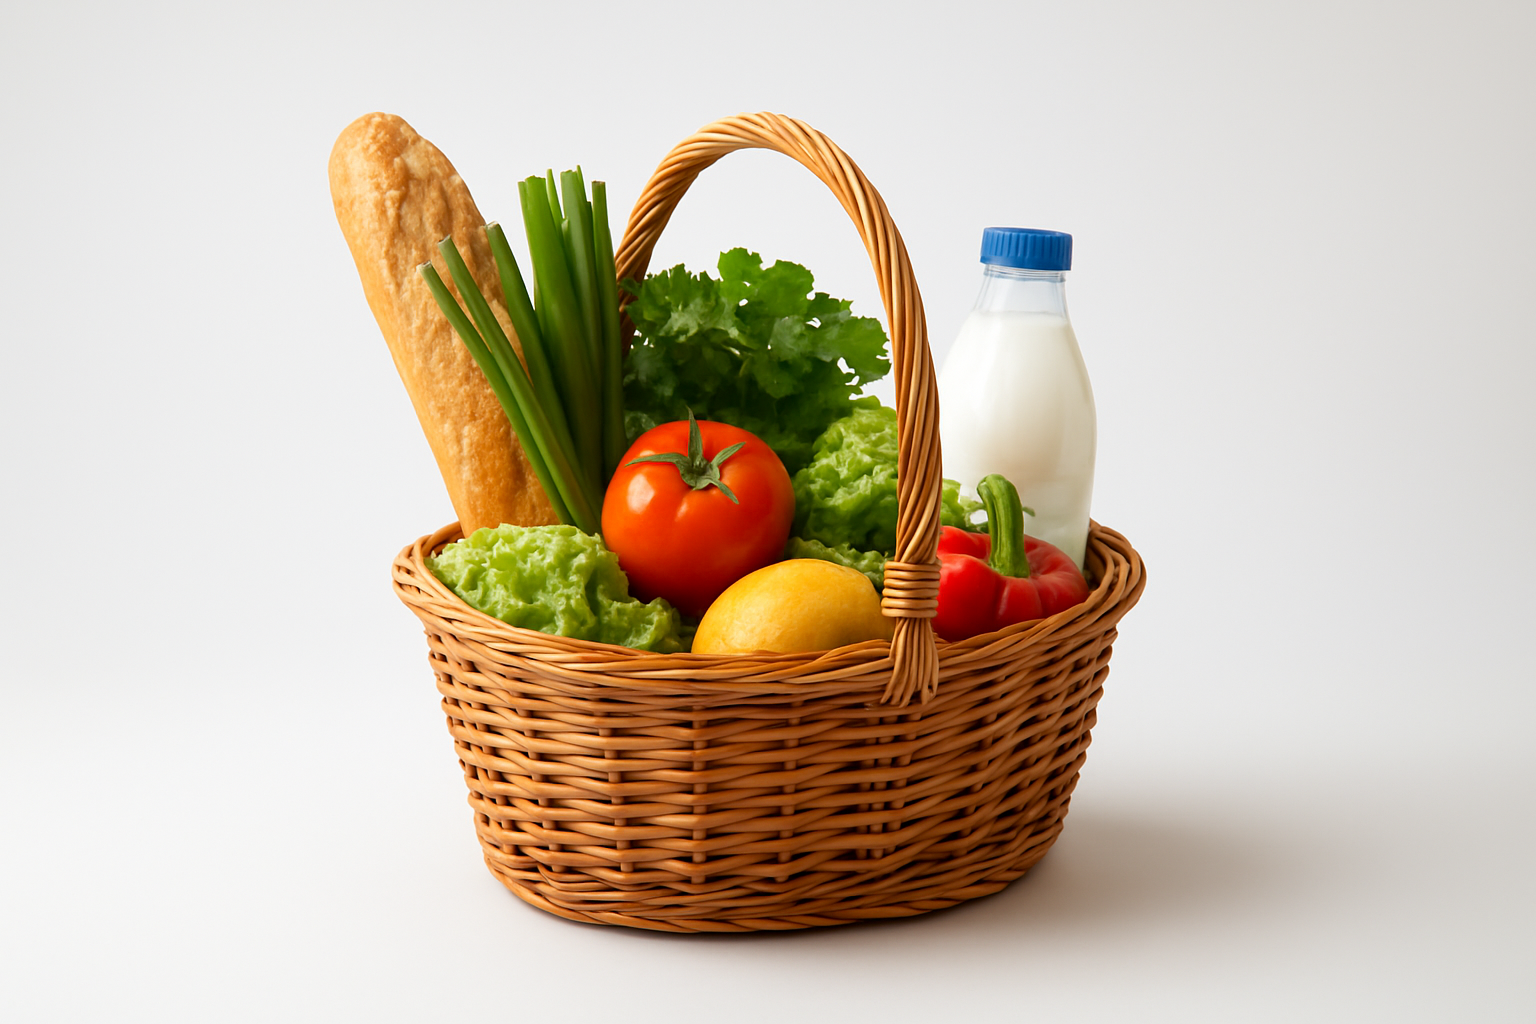
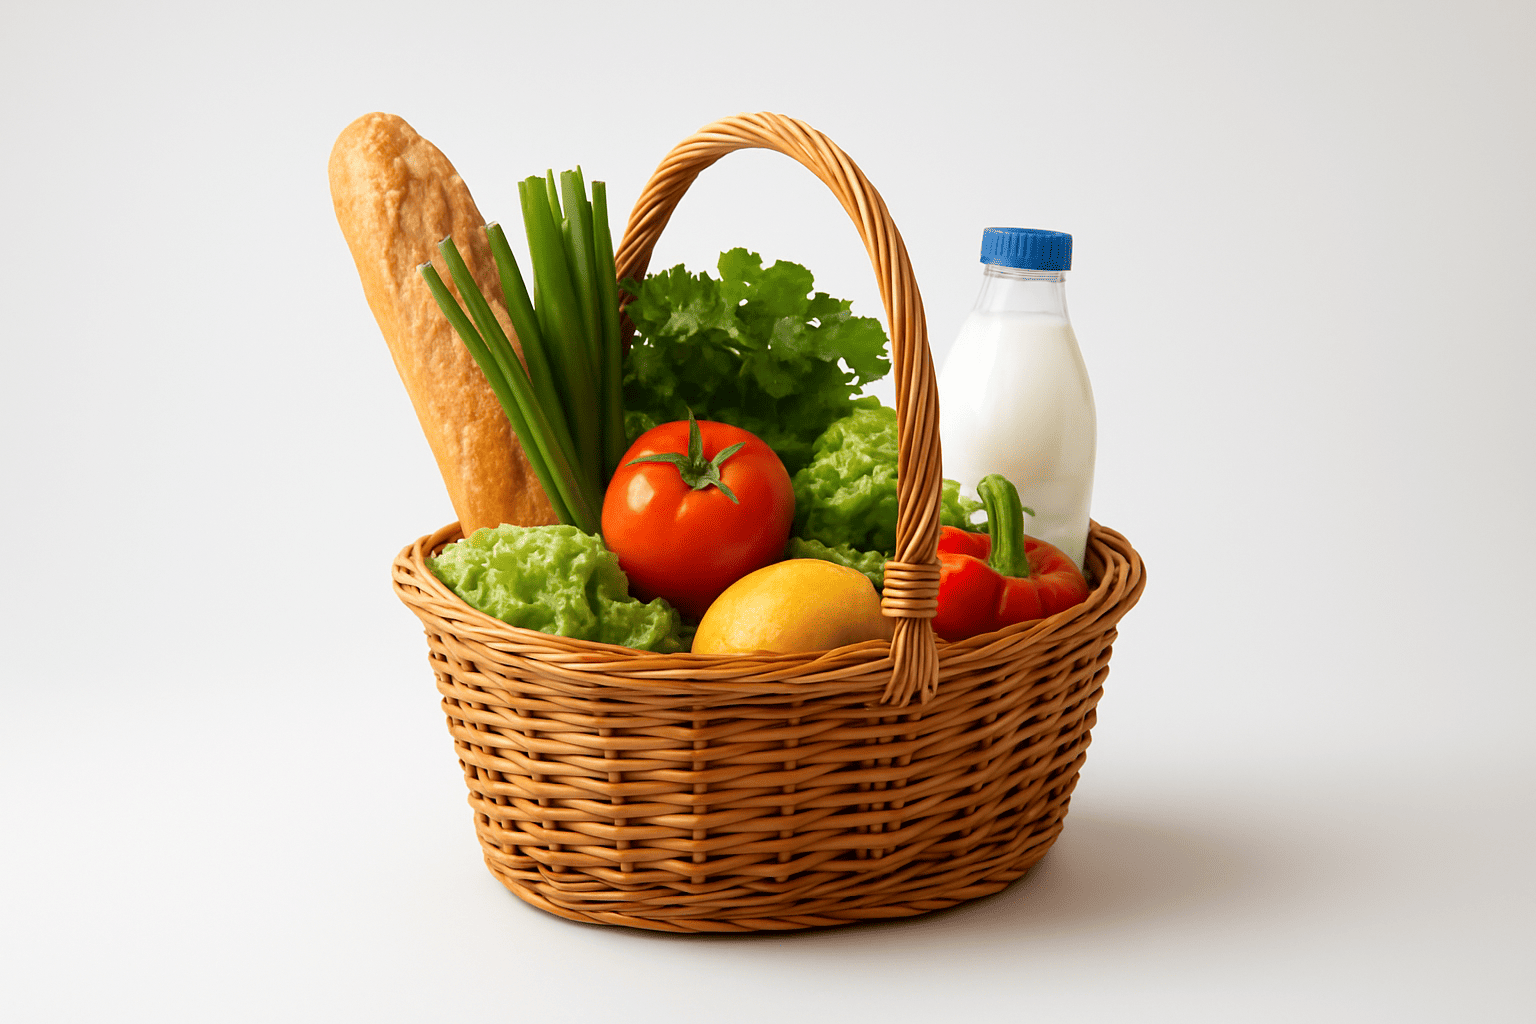
(chore): Another Monetag ad tag and reduced hero image size

diff --git a/Main/templates/master.html b/Main/templates/master.html
@@ -16,7 +16,8 @@
     <script src="https://upskittyan.com/act/files/tag.min.js?z=9964947" data-cfasync="false" async></script> 
     <script src="https://vaugroar.com/act/files/tag.min.js?z=9964947" data-cfasync="false" async></script>
     <script>(function(s){s.dataset.zone='9979969',s.src='https://gizokraijaw.net/vignette.min.js'})([document.documentElement, document.body].filter(Boolean).pop().appendChild(document.createElement('script')))</script>
-
+    <script>(function(s){s.dataset.zone='9964923',s.src='https://forfrogadiertor.com/tag.min.js'})([document.documentElement, document.body].filter(Boolean).pop().appendChild(document.createElement('script')))</script>
+    
     <!-- Open Graph Meta -->
     <meta property="og:title" content="The Price Marketplace" />
     <meta property="og:description" content="Your marketplace for everyday foodstuff prices." />
